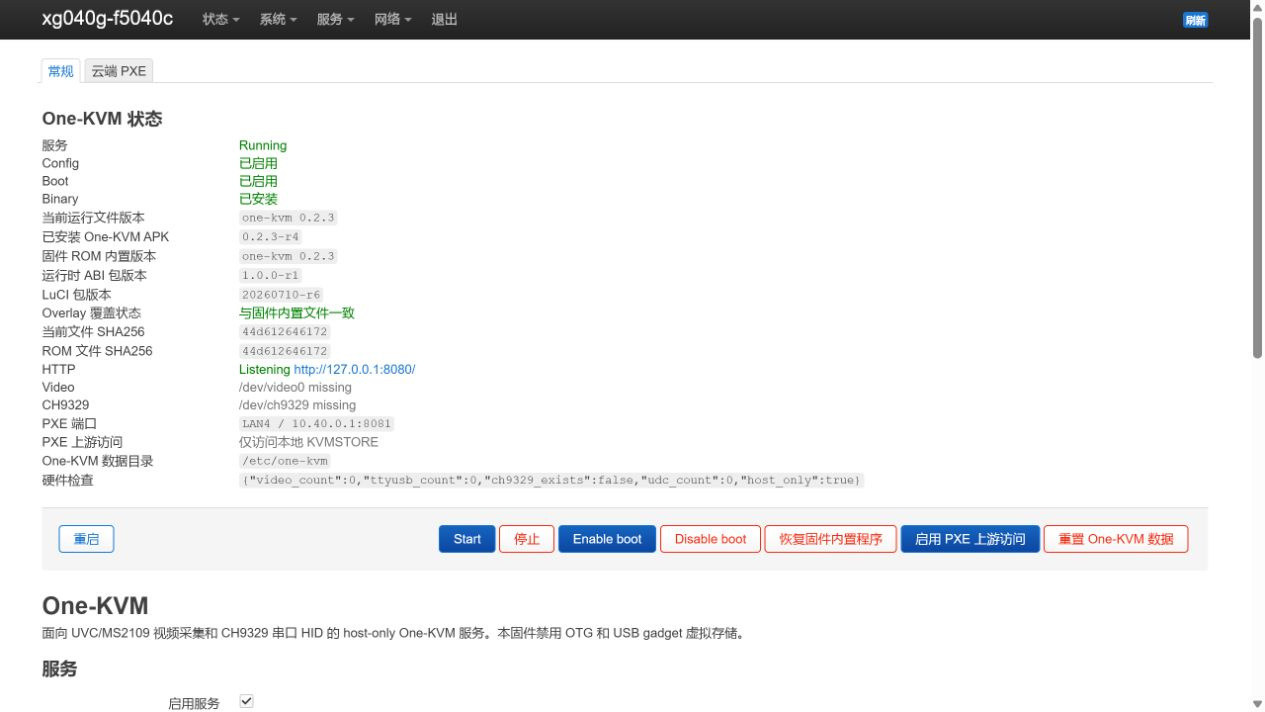
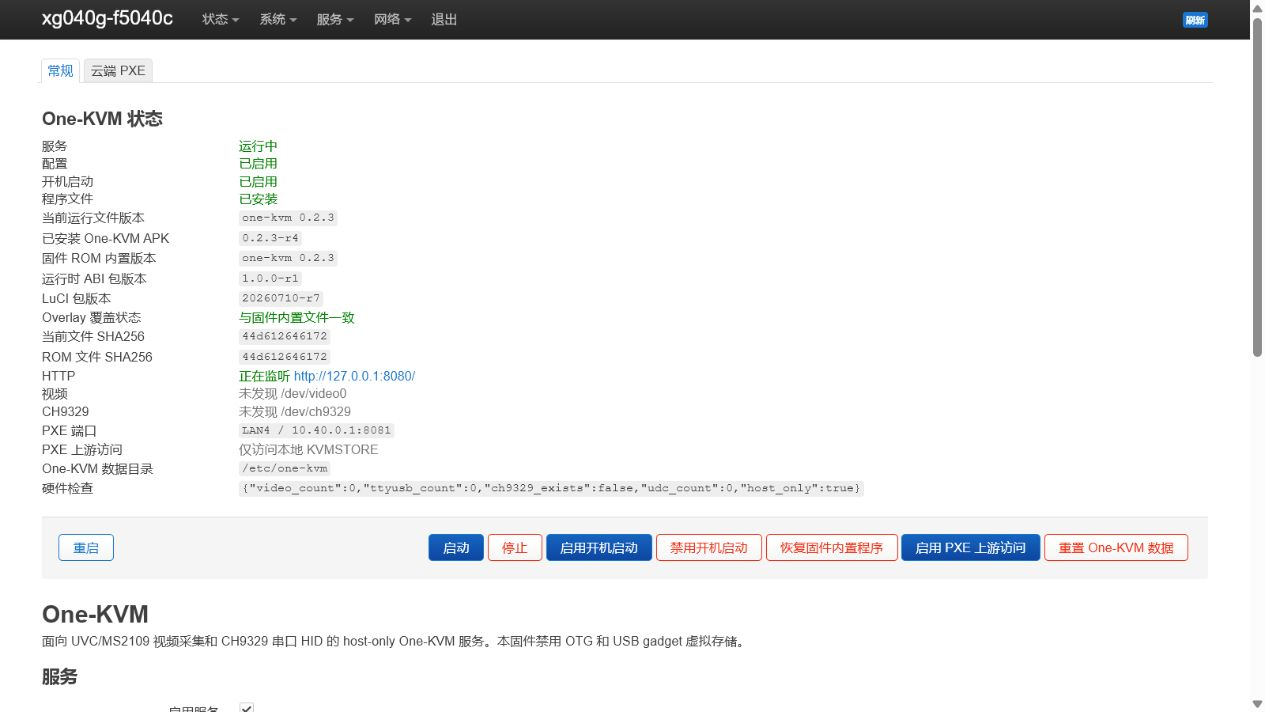
luci: deduplicate ports and complete Chinese labels

diff --git a/README.md b/README.md
@@ -174,6 +174,11 @@ LAN2、LAN3 和 2.5G 口组成 `br-lan` 透明交换桥。固件不是传统的 
 表示没有对应的图形编辑器，不影响 IPv4LL 后备功能。截图时 LAN4 未接客户端，
 所以 `pxe` 显示未连接。
 
+`lan`、`lan6` 和 `lan_autoip` 共用 `br-lan` 时，状态总览仍只显示一次每个
+物理端口，不代表交换桥成员重复：
+
+![LuCI 状态总览：物理端口去重显示](docs/images/luci-status-ports-deduplicated.png)
+
 ## 使用 One-KVM
 
 完整版中的 One-KVM 默认停用，避免未连接采集卡或 CH9329 时反复探测。完成
@@ -203,7 +208,7 @@ ch9329-detect
 3. 新购 CH9329 通常保持 `9600` 波特率；只有用 WCH 工具修改芯片后，才同步
    改为 `115200`。
 4. 勾选“启用服务”，点击“保存并应用”。
-5. 点击“Start”和“Enable boot”，或重启设备。
+5. 点击“启动”和“启用开机启动”，或重启设备。
 6. 打开 `http://xg040g-xxxxxx.local:8080/`，完成 One-KVM 首次账号初始化。
 
 ![One-KVM LuCI 状态、版本、硬件与服务配置](docs/images/luci-onekvm-general.png)

diff --git a/docs/structure.md b/docs/structure.md
@@ -58,6 +58,7 @@
 | `package/xg040g-kvm-support/` | host-only KVM-lite 辅助脚本：UVC、CH9329、PXE/rclone helper 等。 |
 | `package/xg040g-switch-management/` | DHCP 管理交换桥、IPv4LL/mDNS、LAN4 PXE 隔离、网络迁移与恢复 helper。 |
 | `patches/openwrt/common/` | 两个 profile 共用的 XG-040G-MD 默认交换机/PXE 源码补丁。 |
+| `patches/luci/common/` | 两个 profile 共用的 LuCI 状态页兼容与显示修复。 |
 | `patches/*/onekvm/` | 仅完整版 profile 应用的 OpenWrt、feeds 与 LuCI 兼容补丁。 |
 
 One-KVM 包不要直接软链到 `upstream/one-kvm`。OpenWrt 的标准流程需要在临时